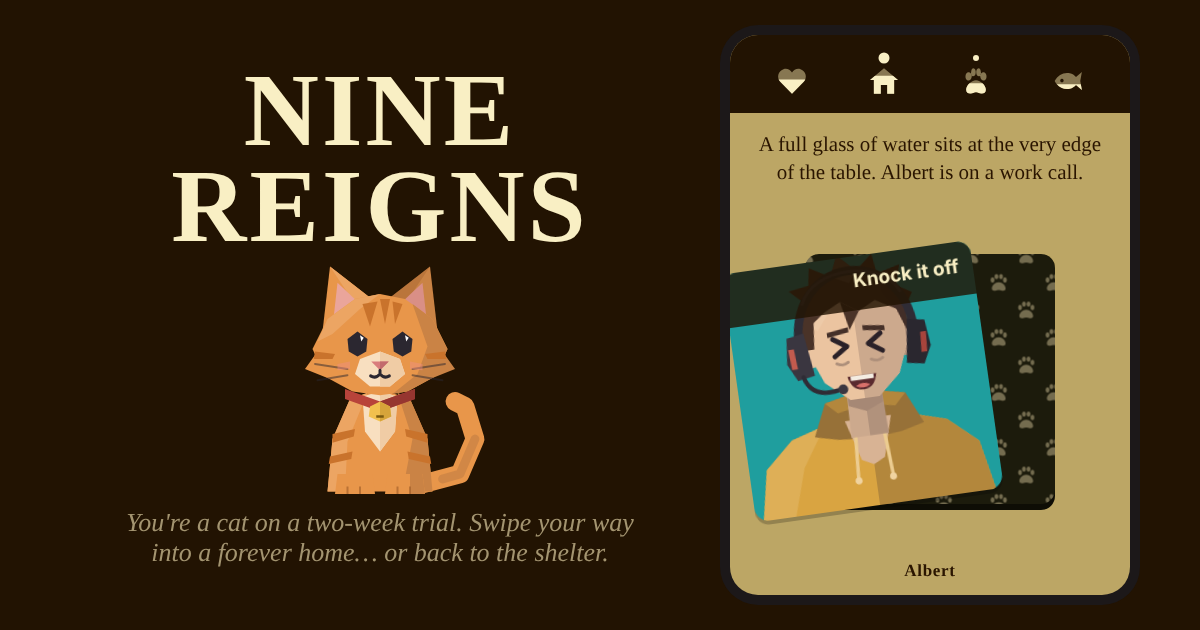
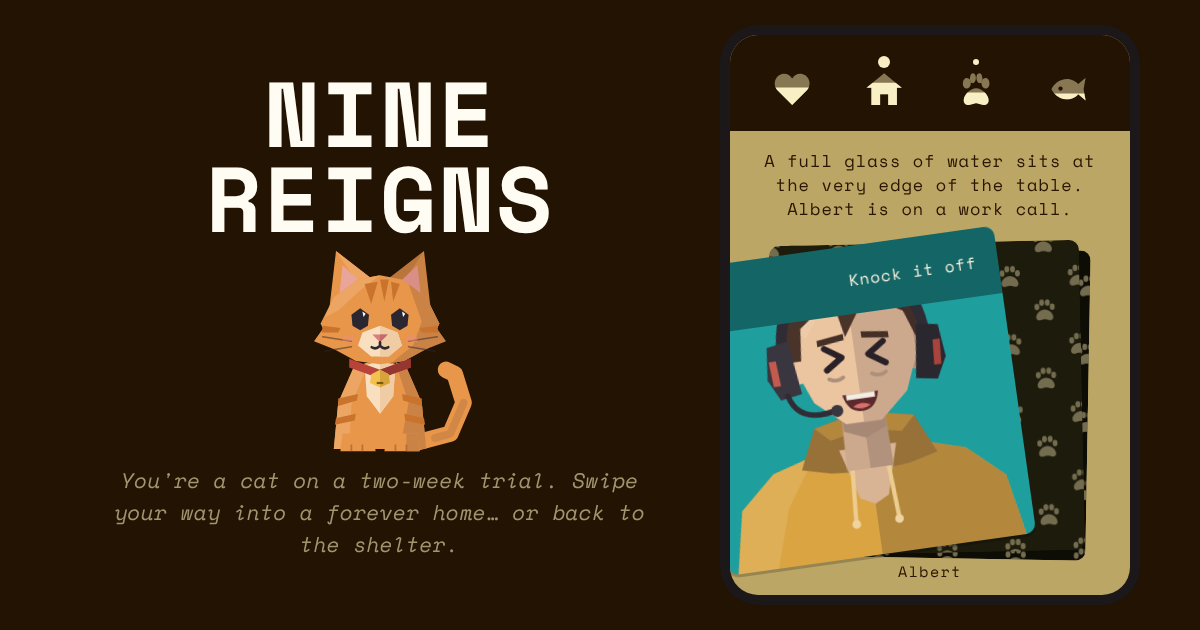
Share image in the new type and layout

Changed region(s): [[0.5858, 0.0905, 0.9558, 0.9349], [0.0925, 0.1206, 0.5242, 0.9048]]

diff --git a/tools/og.html b/tools/og.html
@@ -9,18 +9,17 @@
   body { margin: 0; background: var(--c-bg); }
   .og { width: 1200px; height: 630px; display: flex; align-items: center; gap: 40px; padding: 0 70px; box-sizing: border-box; background: var(--c-bg); }
   .og-left { flex: 1; display: flex; flex-direction: column; align-items: center; }
-  .og-left .logo { font-size: 104px; }
-  .og-cat { width: 250px; height: 250px; }
+  .og-left .logo { font-size: 92px; margin: 0; }
+  .og-cat { width: 220px; height: 220px; }
   .og-cat svg { width: 100%; height: 100%; }
-  .og-tag { font-family: var(--font-prompt); font-style: italic; color: var(--c-bar-dim); font-size: 26px; text-align: center; margin: 4px 0 0; max-width: 520px; }
+  .og-tag { font-family: var(--font-prompt); font-style: italic; color: var(--c-bar-dim); font-size: 21px; letter-spacing: .02em; text-align: center; margin: 4px 0 0; max-width: 540px; }
   .phone { width: 400px; height: 560px; border-radius: 28px; overflow: hidden; background: var(--c-stage); display: flex; flex-direction: column; box-shadow: 0 0 0 10px #1c1819; }
-  .phone .bar-top { padding: 16px; }
+  .phone .bar-top { height: 96px; padding: 0 16px; }
   .phone .meter-full { clip-path: inset(var(--clip) 0 0 0); transition: none; }
-  .phone .prompt-wrap { min-height: 0; padding: 18px 26px 10px; }
-  .phone .prompt { font-size: 21px; }
-  .phone .stage { flex: 1; --card-size: 250px; }
-  .phone .card { transform: translate(-36px, 6px) rotate(-8deg); --lp: 1; }
-  .phone .char-name { text-align: center; padding-bottom: 14px; }
+  .phone .prompt-wrap { height: auto; padding: 18px 26px 6px; }
+  .phone .prompt { font-size: 17px; }
+  .phone .stage { flex: 1; }
+  .phone .card { transform: translate(-30px, 6px) rotate(-8deg); --lp: 1; }
   .icon { width: 180px; height: 180px; background: var(--c-bg); display: grid; place-items: center; }
   .icon svg { width: 160px; height: 160px; }
   .phone .portrait svg { width: 100%; height: 100%; }
@@ -44,12 +43,11 @@
       <div class="phone">
         <header class="bar bar-top"><div class="meters">${meter('joy', 55)}${meter('home', 70)}${meter('instinct', 40)}${meter('belly', 30)}</div></header>
         <div class="prompt-wrap"><p class="prompt">A full glass of water sits at the very edge of the table. Albert is on a work call.</p></div>
-        <div class="stage"><div class="deck-back"></div><div class="card leaning" style="--card-color:#1f9e9e"><div class="choice choice-left">Knock it off</div><div class="portrait">${portrait('albert', { expression: 'drag' })}</div></div></div>
-        <div class="char-name">Albert</div>
+        <div class="stage"><div class="card-slot"><div class="deck-back b2"></div><div class="deck-back b1"></div><div class="card-hold"><div class="card leaning" style="--card-color:#1f9e9e"><div class="choice choice-left">Knock it off</div><div class="portrait">${portrait('albert', { expression: 'drag' })}</div></div></div></div><div class="char-name">Albert</div></div>
       </div>
     </div>`;
   }
-  document.body.dataset.ready = '1';
+  document.fonts.ready.then(() => { document.body.dataset.ready = '1'; });
 </script>
 </body>
 </html>
